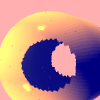
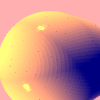
נוע כןס

diff --git a/src/Acc/Grid.java b/src/Acc/Grid.java
@@ -46,7 +46,7 @@ public class Grid {
                         changed = true ;    
                     }
                     if(minMaxLocal.max.getZ() > minMaxTotal.max.getZ()){
-                        maxx = minMaxLocal.max.getZ() ; 
+                        maxz = minMaxLocal.max.getZ() ; 
                         changed = true ;    
                     }
                     if(minMaxLocal.min.getX() < minMaxTotal.min.getX()){
@@ -58,7 +58,7 @@ public class Grid {
                         changed = true ;    
                     }
                     if(minMaxLocal.min.getZ() < minMaxTotal.min.getZ()){
-                        minx = minMaxLocal.min.getZ() ; 
+                        minz= minMaxLocal.min.getZ() ; 
                         changed = true ;    
                     }
                     if(changed){
@@ -254,7 +254,7 @@ public class Grid {
          max  = getMax() ;  
         Point closet = null ; 
         Point farest = null ; 
-         if(strat.getX()  >= min.getX() && strat.getY() >= min.getY() && strat.getZ() >= min.getZ() && strat.getX() <= max.getX() && strat.getY() < max.getX() && strat.getZ() < max.getZ()){
+         if(strat.getX()  >= min.getX() && strat.getY() >= min.getY() && strat.getZ() >= min.getZ() && strat.getX() <= max.getX() && strat.getY() < max.getY() && strat.getZ() < max.getZ()){
             closet = strat ; 
         }
      

diff --git a/src/unittests/renderer/ReflectionRefractionTests.java b/src/unittests/renderer/ReflectionRefractionTests.java
@@ -31,7 +31,7 @@ public class ReflectionRefractionTests {
 		Camera camera = new Camera(new Point(0, 0, 1000), new Vector(0, 0, -1), new Vector(0, 1, 0)) //
 				.setVPSize(150, 150).setVPDistance(1000);
 
-		scene.geometries.add( //
+		scene.add( //
 				new Sphere(new Point(0, 0, -50), 50d).setEmisson(new Color(BLUE)) //
 						.setMaterial(new Material().setkD(new Double3(0.4)).setkS(new Double3(0.3)).setnShininess(100).setKT(new Double3(0.3))),
 				new Sphere(new Point(0, 0, -50), 25d).setEmisson(new Color(RED)) //
@@ -41,7 +41,7 @@ public class ReflectionRefractionTests {
 						.setKL(0.0004).setKQ(0.0000006));
 
 		camera.setWriter(new ImageWriter("refractionTwoSpheres", 500, 500)).
-				setRayTrace(new RayTracerBasic(scene)) //
+				setRayTrace(new RayTracerBasic(scene,true).setSize(10)) //
 				.renderImage() //
 				.writeToImage();
 	}

diff --git a/src/unittests/renderer/ModelTests.java b/src/unittests/renderer/ModelTests.java
@@ -275,7 +275,7 @@ public void RifleModelTest() throws WFException, IOException {
     scene1.add(modelObjParser.getObjParserModel().scale(200).rotate(-30,new Vector(0,1,0)).changeStartingPoint(new Point(100,-100,0)).getShapes().stream().map((e)->(Intersectable)e.setEmisson(new Color(BLUE).reduce(2)) //
     .setMaterial(new Material().setkD(new Double3(0.5)).setkS(new Double3(0.5)).setnShininess(300))).toArray(Intersectable[]::new));
     System.out.println("hiii");
-    RayTracerBasic trc = new RayTracerBasic(scene1,true).setSize(4) ;
+    RayTracerBasic trc = new RayTracerBasic(scene1,true).setSize(10) ;
     System.out.println(trc.getGrid().getMax());
     camera1.setWriter(imageWriter) //
     .setRayTrace(trc) //

diff --git a/src/geometries/Polygon.java b/src/geometries/Polygon.java
@@ -147,7 +147,7 @@ public class Polygon extends Voxelable {
         if(Util.alignZero(vertices.get(i).getX() - minX) <0) { minY = vertices.get(i).getY();}
         if(Util.alignZero(vertices.get(i).getX() - minX) <0) { minZ = vertices.get(i).getZ();}
       }
-      return new MaxMin(minX , minY , minZ , maxX , maxY ,maxZ);
+      return new MaxMin(minX , minY , minZ , maxX + 0.1 , maxY + 0.1 ,maxZ+0.1);
     }
 
 
